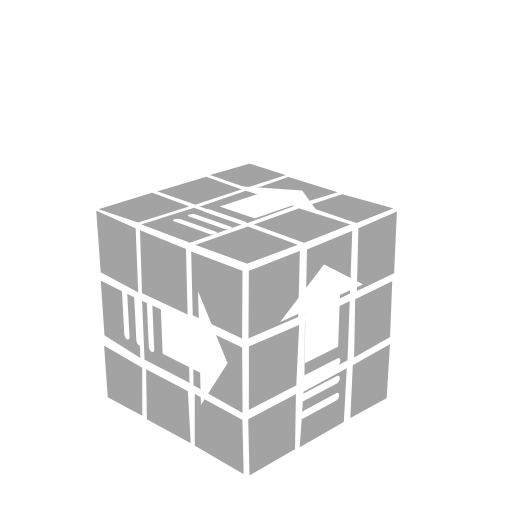
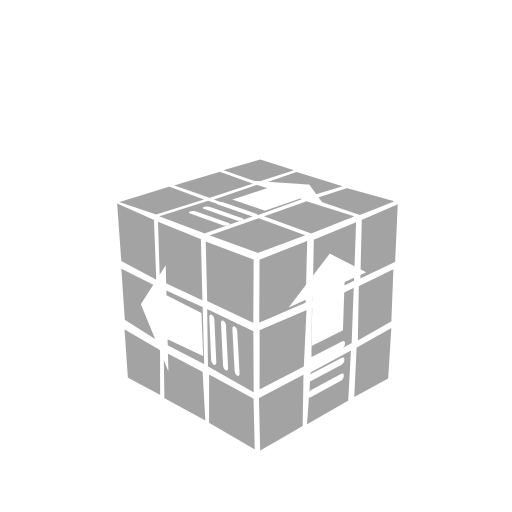
Correcting X, Y, Z and adding all needed pictures.

Changed region(s): [[0.1875, 0.3125, 0.7812, 0.9375]]

diff --git a/src/view/view.c b/src/view/view.c
@@ -436,10 +436,10 @@ void update(rubikview * mainView, mvqueue moveQueue, mvstack moveStack) {
   free(moves);
 
   if (keystate[SDLK_LSHIFT]) {
-    glBindTexture(GL_TEXTURE_2D, moveToTexture(mainView->texStore, xi));
+    glBindTexture(GL_TEXTURE_2D, mainView->texStore.xyzi);
   }
   else {
-    glBindTexture(GL_TEXTURE_2D, moveToTexture(mainView->texStore, x));
+    glBindTexture(GL_TEXTURE_2D, mainView->texStore.xyz);
   }
   glColor3ub(255, 255, 255);
   glBegin(GL_QUADS);
@@ -742,23 +742,6 @@ void parseOrder(rubikview * mainView, move order, bool fast) {
       break;
 
     case y:
-      newAnimation = generateAnimation(FRONT, 0, rotationAngle, false);
-      addAnimation(&newAnimStack->animations, newAnimation);
-      newAnimation = generateAnimation(FRONT, 2, rotationAngle, false);
-      addAnimation(&newAnimStack->animations, newAnimation);
-      newAnimation = generateAnimation(FRONT, 1, rotationAngle, false);
-      addAnimation(&newAnimStack->animations, newAnimation);
-      break;
-    case yi:
-      newAnimation = generateAnimation(FRONT, 0, rotationAngle, true);
-      addAnimation(&newAnimStack->animations, newAnimation);
-      newAnimation = generateAnimation(FRONT, 2, rotationAngle, true);
-      addAnimation(&newAnimStack->animations, newAnimation);
-      newAnimation = generateAnimation(FRONT, 1, rotationAngle, true);
-      addAnimation(&newAnimStack->animations, newAnimation);
-      break;
-
-    case z:
       newAnimation = generateAnimation(TOP, 0, rotationAngle, true);
       addAnimation(&newAnimStack->animations, newAnimation);
       newAnimation = generateAnimation(TOP, 2, rotationAngle, true);
@@ -766,12 +749,29 @@ void parseOrder(rubikview * mainView, move order, bool fast) {
       newAnimation = generateAnimation(TOP, 1, rotationAngle, true);
       addAnimation(&newAnimStack->animations, newAnimation);
       break;
-    case zi:
+    case yi:
       newAnimation = generateAnimation(TOP, 0, rotationAngle, false);
       addAnimation(&newAnimStack->animations, newAnimation);
       newAnimation = generateAnimation(TOP, 2, rotationAngle, false);
       addAnimation(&newAnimStack->animations, newAnimation);
       newAnimation = generateAnimation(TOP, 1, rotationAngle, false);
+      addAnimation(&newAnimStack->animations, newAnimation);
+      break;
+
+    case z:
+      newAnimation = generateAnimation(FRONT, 0, rotationAngle, false);
+      addAnimation(&newAnimStack->animations, newAnimation);
+      newAnimation = generateAnimation(FRONT, 2, rotationAngle, false);
+      addAnimation(&newAnimStack->animations, newAnimation);
+      newAnimation = generateAnimation(FRONT, 1, rotationAngle, false);
+      addAnimation(&newAnimStack->animations, newAnimation);
+      break;
+    case zi:
+      newAnimation = generateAnimation(FRONT, 0, rotationAngle, true);
+      addAnimation(&newAnimStack->animations, newAnimation);
+      newAnimation = generateAnimation(FRONT, 2, rotationAngle, true);
+      addAnimation(&newAnimStack->animations, newAnimation);
+      newAnimation = generateAnimation(FRONT, 1, rotationAngle, true);
       addAnimation(&newAnimStack->animations, newAnimation);
       break;
 

diff --git a/src/view/graphics.c b/src/view/graphics.c
@@ -283,6 +283,15 @@ textureStore generateTextureStore() {
   generateTexture(&texStore.xyz, "res/xyz.png");
   generateTexture(&texStore.xyzi, "res/xyzi.png");
 
+  generateTexture(&texStore.x, "res/x.png");
+  generateTexture(&texStore.xi, "res/xi.png");
+
+  generateTexture(&texStore.y, "res/y.png");
+  generateTexture(&texStore.yi, "res/yi.png");
+
+  generateTexture(&texStore.z, "res/z.png");
+  generateTexture(&texStore.zi, "res/zi.png");
+
   generateTexture(&texStore.winner, "res/winner.png");
   return texStore;
 }
@@ -671,15 +680,24 @@ GLuint moveToTexture(textureStore texStore, move command) {
       break;
 
     case x:
+      textureId = texStore.x;
+      break;
     case y:
+      textureId = texStore.y;
+      break;
     case z:
-      textureId = texStore.xyz;
+      textureId = texStore.z;
       break;
 
     case xi:
+      textureId = texStore.xi;
+      break;
     case yi:
+      textureId = texStore.yi;
+      break;
     case zi:
-      textureId = texStore.xyzi;
+      textureId = texStore.zi;
+      break;
 
     default:
       break;

diff --git a/src/view/graphics.h b/src/view/graphics.h
@@ -137,6 +137,15 @@ typedef struct _textureStore {
   GLuint xyz;
   GLuint xyzi;
 
+  GLuint x;
+  GLuint xi;
+
+  GLuint y;
+  GLuint yi;
+
+  GLuint z;
+  GLuint zi;
+
   GLuint winner;
 } textureStore;
 
